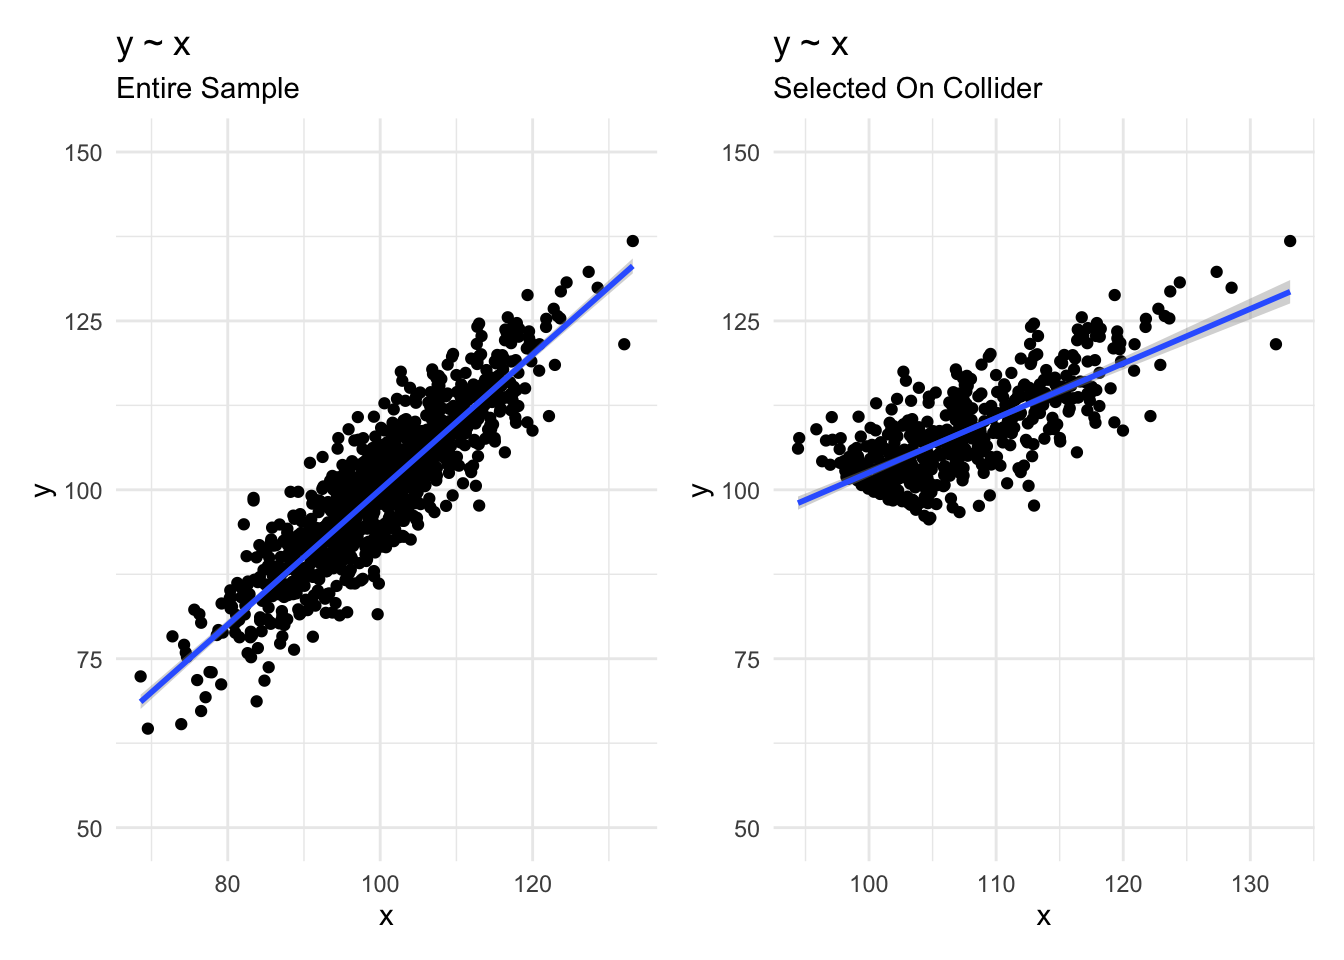
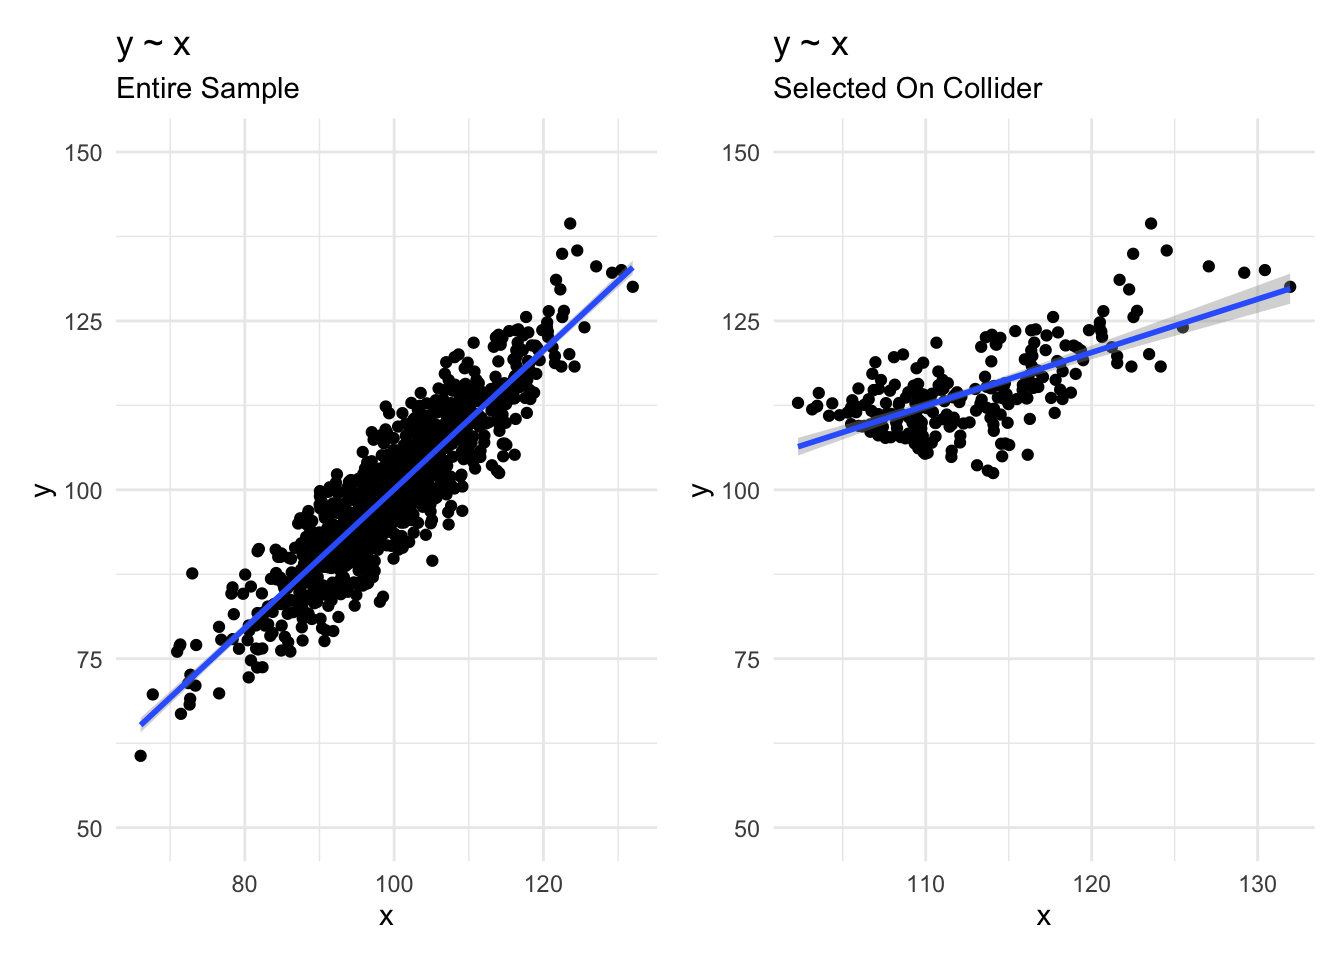
changed collider threshold

diff --git a/collider/collider.html b/collider/collider.html
@@ -7,7 +7,7 @@
 <meta name="viewport" content="width=device-width, initial-scale=1.0, user-scalable=yes">
 
 <meta name="author" content="Andy Grogan-Kaylor">
-<meta name="dcterms.date" content="2023-04-10">
+<meta name="dcterms.date" content="2023-04-11">
 
 <title>Selecting on a Collider</title>
 <style>
@@ -141,7 +141,7 @@ code span.wa { color: #60a0b0; font-weight: bold; font-style: italic; } /* Warni
     <div>
     <div class="quarto-title-meta-heading">Published</div>
     <div class="quarto-title-meta-contents">
-      <p class="date">April 10, 2023</p>
+      <p class="date">April 11, 2023</p>
     </div>
   </div>
   
@@ -164,7 +164,9 @@ code span.wa { color: #60a0b0; font-weight: bold; font-style: italic; } /* Warni
 <span id="cb1-4"><a href="#cb1-4" aria-hidden="true" tabindex="-1"></a></span>
 <span id="cb1-5"><a href="#cb1-5" aria-hidden="true" tabindex="-1"></a><span class="fu">library</span>(dplyr) <span class="co"># data wrangling</span></span>
 <span id="cb1-6"><a href="#cb1-6" aria-hidden="true" tabindex="-1"></a></span>
-<span id="cb1-7"><a href="#cb1-7" aria-hidden="true" tabindex="-1"></a><span class="fu">library</span>(sjPlot) <span class="co"># nice tables</span></span></code><button title="Copy to Clipboard" class="code-copy-button"><i class="bi"></i></button></pre></div>
+<span id="cb1-7"><a href="#cb1-7" aria-hidden="true" tabindex="-1"></a><span class="fu">library</span>(sjPlot) <span class="co"># nice tables</span></span>
+<span id="cb1-8"><a href="#cb1-8" aria-hidden="true" tabindex="-1"></a></span>
+<span id="cb1-9"><a href="#cb1-9" aria-hidden="true" tabindex="-1"></a><span class="fu">set.seed</span>(<span class="dv">1234</span>)</span></code><button title="Copy to Clipboard" class="code-copy-button"><i class="bi"></i></button></pre></div>
 </div>
 </section>
 <section id="simulated-data" class="level1" data-number="3">
@@ -184,7 +186,7 @@ code span.wa { color: #60a0b0; font-weight: bold; font-style: italic; } /* Warni
 </div>
 <div class="cell">
 <div class="sourceCode cell-code" id="cb3"><pre class="sourceCode r code-with-copy"><code class="sourceCode r"><span id="cb3-1"><a href="#cb3-1" aria-hidden="true" tabindex="-1"></a>df_selected <span class="ot">&lt;-</span> df <span class="sc">%&gt;%</span></span>
-<span id="cb3-2"><a href="#cb3-2" aria-hidden="true" tabindex="-1"></a>  <span class="fu">filter</span>(z <span class="sc">&gt;</span> <span class="dv">200</span>)  <span class="co"># selection criterion</span></span></code><button title="Copy to Clipboard" class="code-copy-button"><i class="bi"></i></button></pre></div>
+<span id="cb3-2"><a href="#cb3-2" aria-hidden="true" tabindex="-1"></a>  <span class="fu">filter</span>(z <span class="sc">&gt;</span> <span class="dv">215</span>)  <span class="co"># selection criterion</span></span></code><button title="Copy to Clipboard" class="code-copy-button"><i class="bi"></i></button></pre></div>
 </div>
 </section>
 <section id="graphs" class="level1" data-number="4">
@@ -246,31 +248,31 @@ code span.wa { color: #60a0b0; font-weight: bold; font-style: italic; } /* Warni
 </tr>
 <tr>
 <td style=" padding:0.2cm; text-align:left; vertical-align:top; text-align:left; ">(Intercept)</td>
-<td style=" padding:0.2cm; text-align:left; vertical-align:top; text-align:center;  ">0.09</td>
-<td style=" padding:0.2cm; text-align:left; vertical-align:top; text-align:center;  ">-3.12&nbsp;–&nbsp;3.31</td>
-<td style=" padding:0.2cm; text-align:left; vertical-align:top; text-align:center;  ">0.956</td>
-<td style=" padding:0.2cm; text-align:left; vertical-align:top; text-align:center;  ">21.76</td>
-<td style=" padding:0.2cm; text-align:left; vertical-align:top; text-align:center;  ">14.62&nbsp;–&nbsp;28.91</td>
+<td style=" padding:0.2cm; text-align:left; vertical-align:top; text-align:center;  ">-2.71</td>
+<td style=" padding:0.2cm; text-align:left; vertical-align:top; text-align:center;  ">-5.76&nbsp;–&nbsp;0.35</td>
+<td style=" padding:0.2cm; text-align:left; vertical-align:top; text-align:center;  ">0.083</td>
+<td style=" padding:0.2cm; text-align:left; vertical-align:top; text-align:center;  ">25.68</td>
+<td style=" padding:0.2cm; text-align:left; vertical-align:top; text-align:center;  ">13.09&nbsp;–&nbsp;38.27</td>
 <td style=" padding:0.2cm; text-align:left; vertical-align:top; text-align:center;  col7"><strong>&lt;0.001</strong></td>
 </tr>
 <tr>
 <td style=" padding:0.2cm; text-align:left; vertical-align:top; text-align:left; ">x</td>
-<td style=" padding:0.2cm; text-align:left; vertical-align:top; text-align:center;  ">1.00</td>
-<td style=" padding:0.2cm; text-align:left; vertical-align:top; text-align:center;  ">0.97&nbsp;–&nbsp;1.03</td>
+<td style=" padding:0.2cm; text-align:left; vertical-align:top; text-align:center;  ">1.03</td>
+<td style=" padding:0.2cm; text-align:left; vertical-align:top; text-align:center;  ">1.00&nbsp;–&nbsp;1.06</td>
 <td style=" padding:0.2cm; text-align:left; vertical-align:top; text-align:center;  "><strong>&lt;0.001</strong></td>
-<td style=" padding:0.2cm; text-align:left; vertical-align:top; text-align:center;  ">0.81</td>
-<td style=" padding:0.2cm; text-align:left; vertical-align:top; text-align:center;  ">0.74&nbsp;–&nbsp;0.87</td>
+<td style=" padding:0.2cm; text-align:left; vertical-align:top; text-align:center;  ">0.79</td>
+<td style=" padding:0.2cm; text-align:left; vertical-align:top; text-align:center;  ">0.68&nbsp;–&nbsp;0.90</td>
 <td style=" padding:0.2cm; text-align:left; vertical-align:top; text-align:center;  col7"><strong>&lt;0.001</strong></td>
 </tr>
 <tr>
 <td style=" padding:0.2cm; text-align:left; vertical-align:top; text-align:left; padding-top:0.1cm; padding-bottom:0.1cm; border-top:1px solid;">Observations</td>
 <td style=" padding:0.2cm; text-align:left; vertical-align:top; padding-top:0.1cm; padding-bottom:0.1cm; text-align:left; border-top:1px solid;" colspan="3">1000</td>
-<td style=" padding:0.2cm; text-align:left; vertical-align:top; padding-top:0.1cm; padding-bottom:0.1cm; text-align:left; border-top:1px solid;" colspan="3">497</td>
+<td style=" padding:0.2cm; text-align:left; vertical-align:top; padding-top:0.1cm; padding-bottom:0.1cm; text-align:left; border-top:1px solid;" colspan="3">228</td>
 </tr>
 <tr>
 <td style=" padding:0.2cm; text-align:left; vertical-align:top; text-align:left; padding-top:0.1cm; padding-bottom:0.1cm;">R<sup>2</sup> / R<sup>2</sup> adjusted</td>
-<td style=" padding:0.2cm; text-align:left; vertical-align:top; padding-top:0.1cm; padding-bottom:0.1cm; text-align:left;" colspan="3">0.790 / 0.790</td>
-<td style=" padding:0.2cm; text-align:left; vertical-align:top; padding-top:0.1cm; padding-bottom:0.1cm; text-align:left;" colspan="3">0.537 / 0.536</td>
+<td style=" padding:0.2cm; text-align:left; vertical-align:top; padding-top:0.1cm; padding-bottom:0.1cm; text-align:left;" colspan="3">0.814 / 0.814</td>
+<td style=" padding:0.2cm; text-align:left; vertical-align:top; padding-top:0.1cm; padding-bottom:0.1cm; text-align:left;" colspan="3">0.462 / 0.460</td>
 </tr>
 
 </tbody></table>
